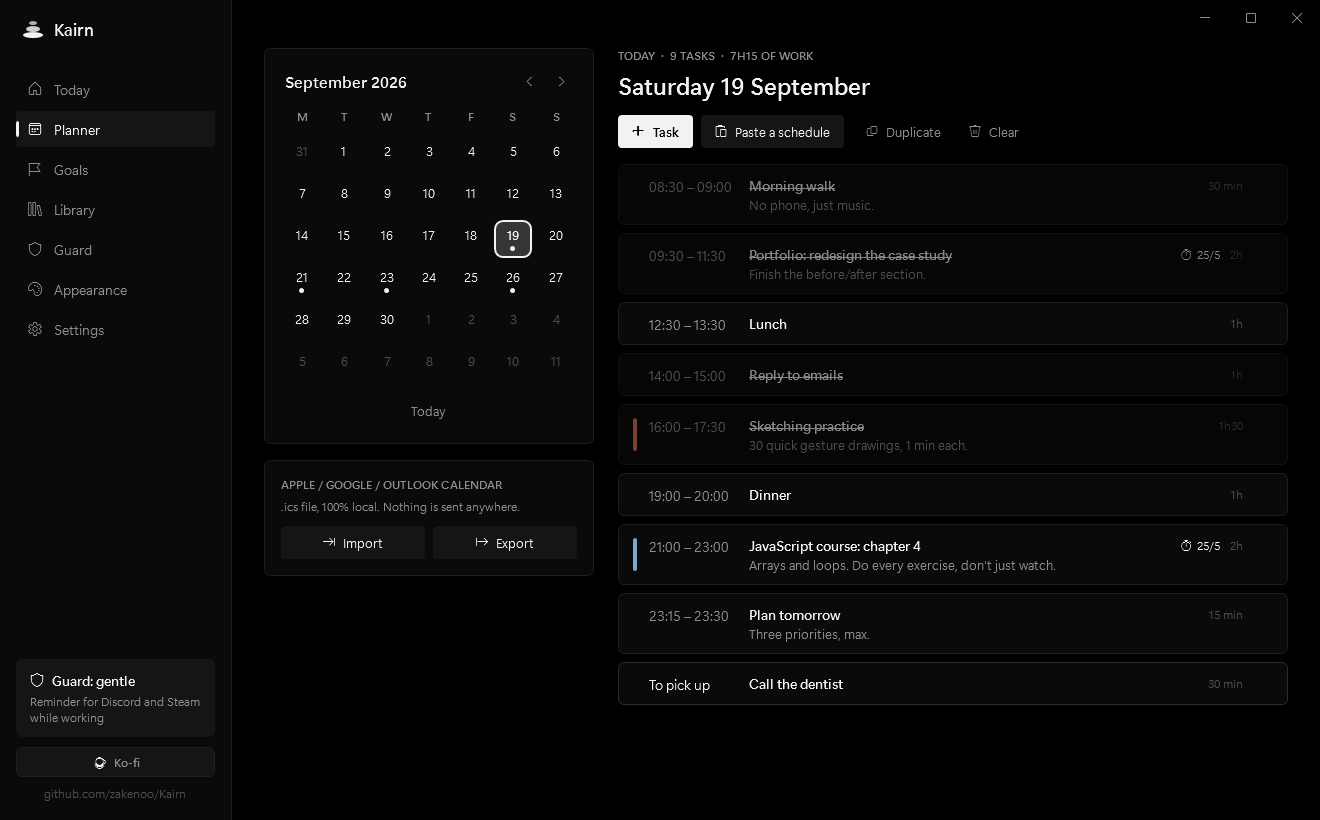
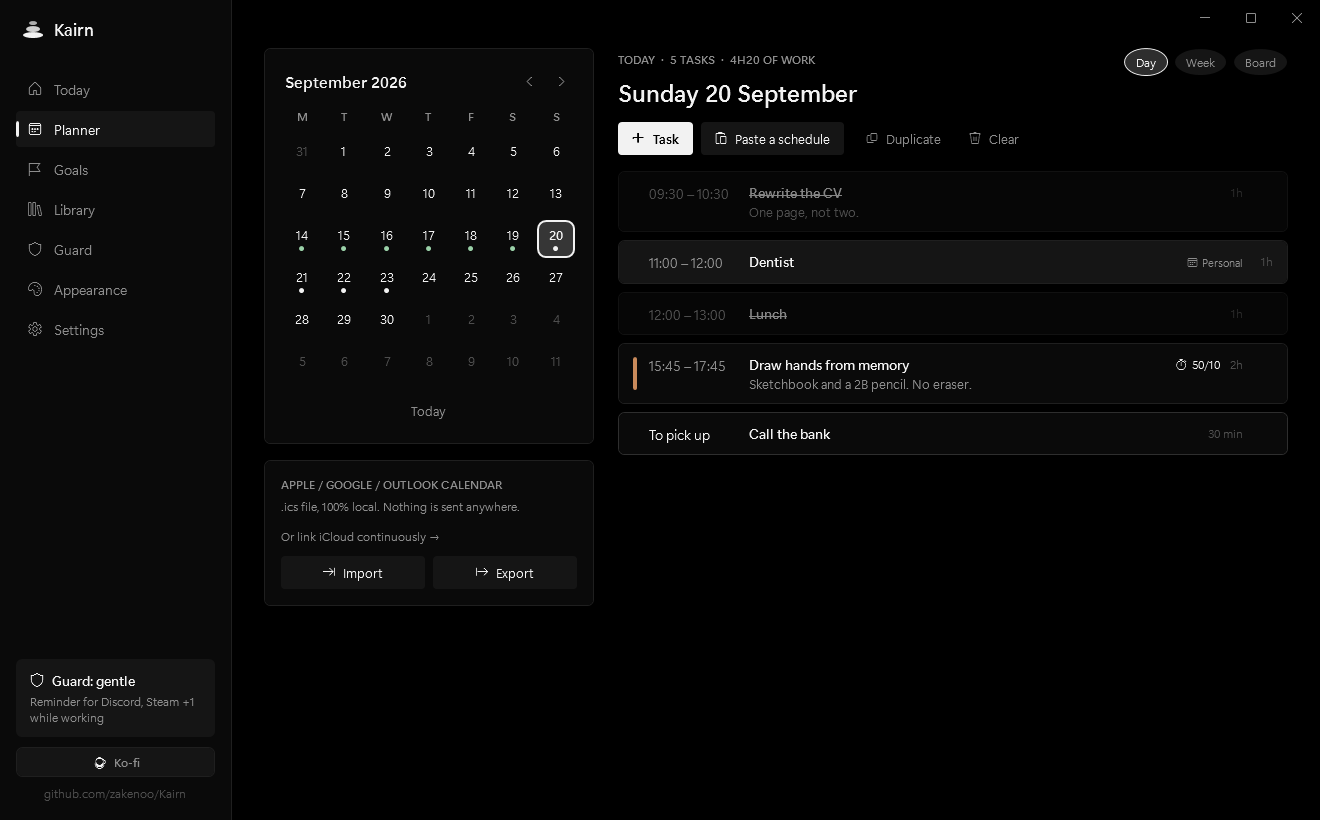
Rewrite the README and refresh every screenshot
The screenshots still showed the interface from before steps, the
essentials, the view switcher and the iCloud link. All of them are
regenerated in English from a consistent demo day, and three new ones
are added: the week view, the board view and the task editor.

The README is restructured around what the app actually does now, and
states the one rule that shapes the rest: Kairn never asks you to sort,
rate or prioritise, because a single star capped at three is enough.

Also corrected: English, not French, is the reference language for
translations, and the privacy section now covers the calendar password
and the quick-capture shortcut.

diff --git a/README.md b/README.md
@@ -10,7 +10,7 @@ Your day hour by hour, a work rhythm that suits you, a gentle guard against dist
 and an assistant that turns “I want to learn this” into real sessions in your calendar.
 No account. No cloud. Nothing leaves your PC unless you decide so.
 
-[**Download for Windows**](https://github.com/zakenoo/Kairn/releases/latest) · [Privacy](#privacy) · [FAQ](#faq) · [Support on Ko-fi](https://ko-fi.com/zakenoo)
+[**Download for Windows**](https://github.com/zakenoo/Kairn/releases/latest) · [Features](#features) · [Privacy](#privacy) · [FAQ](#faq) · [Support on Ko-fi](https://ko-fi.com/zakenoo)
 
 ![Windows 10/11](https://img.shields.io/badge/Windows-10%20%7C%2011-0b0b0b?style=flat-square)
 ![Local first](https://img.shields.io/badge/data-100%25%20local-0b0b0b?style=flat-square)
@@ -25,38 +25,44 @@ No account. No cloud. Nothing leaves your PC unless you decide so.
 
 Kairos was the Greek god of the right moment; a cairn is the small pile of stones that marks a trail. Kairn is both: landmarks for your day, placed at the right time.
 
-It was built for people who find it hard to start, to stay on track, or to forgive themselves when a day doesn't go to plan, including people with ADHD. A few principles shape everything:
+It was built for people who find it hard to start, to stay on track, or to forgive themselves when a day doesn't go to plan, including people with ADHD. Four principles shape everything:
 
 - **No guilt.** There's no percentage of what you *didn't* do, and no streak to keep alive. Progress is a cairn that gains a stone for every finished task and every finished step, plus the time you actually worked. A day you skip never takes a stone away.
 - **Nothing is lost.** An unfinished task isn't a failure: it moves to your next work session, in “To pick up”.
 - **Starting is the hard part.** Every plan begins with an easy first step, long tasks are cut into short sessions, and the next action is always in plain sight.
 - **Your data is yours.** Everything is stored as plain files on your PC. No account, no telemetry, no ads.
 
+There is also one thing Kairn deliberately does *not* do: it never asks you to sort, rate or prioritise. There's a single way to say “this one counts” — a star, one click, capped at three.
+
 ## Features
 
 ### Today
 The task in progress with a live countdown, what comes next, and your whole day at a glance. Links attached to a task (a Figma file, a YouTube tutorial, a document) get a one-click button when it's time, and can even open by themselves. Your work tools sit on the side, and your mail can stay out of sight during work blocks.
 
-**The essentials** holds the two or three things that really matter today, and nothing more. One click on a star, no level to pick and nothing to read: it's the only way Kairn lets you say “this one counts”, on purpose. **Focus** hides everything else in one click: only the task you're on stays, and one click brings the rest back.
+**The essentials** holds the two or three things that really matter today, and nothing more. **Focus** hides everything else in one click: only the task you're on stays, and one click brings the rest back.
 
 ### Steps
-A task can be cut into steps you tick off one by one, until the first one is small enough to be impossible to put off. The task in progress shows them as a checklist, and the assistant turns its instructions into steps by itself. Every step you finish adds a stone to the cairn, exactly like a finished task: starting counts as much as finishing.
+A task can be cut into steps you tick off one by one, until the first one is small enough to be impossible to put off. The task in progress shows them as a checklist, the assistant turns its instructions into steps by itself, and one button turns your notes into steps, one line each.
+
+Every step you finish adds a stone to the cairn, exactly like a finished task: starting counts as much as finishing.
+
+<img src="docs/screenshots/editor.png" alt="Editing a task: steps, icon, reminders" width="900">
 
 ### Planner
 A monthly calendar where you add tasks on time slots, or **paste a whole schedule as plain text**: `9:30 Study`, `12:00 - 13:00 Lunch`, `2pm 📝 Write CV #pomodoro`. Indented lines become notes, lines without a time become section titles, an icon at the start of a line becomes the task's icon, and you get a live preview before anything is added. Import and export `.ics` files for Apple, Google or Outlook calendars.
 
-Three ways to look at the same days, one click apart: **Day** (the list), **Week** (seven columns with the blocks at their hour) and **Board** (*To pick up* / *Planned* / *Done*). **Drag a task** wherever it should go: onto another day in the calendar, onto another hour in the week, into another column on the board, or above or below another task to reorder the day. No dialog, no error message, no guilt.
+Three ways to look at the same days, one click apart:
 
-<img src="docs/screenshots/planner.png" alt="Planner" width="900">
+<img src="docs/screenshots/planner.png" alt="Planner, day view" width="900">
 
-### Your iCloud calendar, both ways
-Link your iCloud account and **your real appointments appear in your day** — they hold their slot, so the assistant stops planning a drawing session in the middle of your dentist appointment. They're read-only in Kairn: a meeting isn't a task you tick off, and the place to change it is Apple's Calendar app.
+**Week** puts the seven days side by side with the blocks at their hour, and **Board** sorts the day into *To pick up* / *Planned* / *Done*.
 
-Turn on sending and **your Kairn sessions go up to iCloud**, so they're on your iPhone and your Mac. Kairn creates its own “Kairn” calendar for that and **only ever writes there** — it never touches an event it didn't create.
+<p align="center">
+  <img src="docs/screenshots/week.png" alt="Planner, week view" width="440">
+  <img src="docs/screenshots/board.png" alt="Planner, board view" width="440">
+</p>
 
-Nothing happens until you link an account yourself, nothing is shown until you tick which calendars to share, and sending is a separate switch that starts off. “Unlink” removes the imported appointments from Kairn and leaves your Apple side untouched. It needs an [app-specific password](https://account.apple.com), not your Apple password, and it's revocable from Apple at any time. Recurring events are expanded by Apple's own server, so “every Tuesday” really comes back as every Tuesday, with its exceptions.
-
-The same protocol (CalDAV) works for Fastmail, Nextcloud and Synology. Google removed simple-password CalDAV, so for Google Calendar the `.ics` import below is still the way.
+**Drag a task** wherever it should go: onto another day in the calendar, onto another hour in the week, into another column on the board, or above or below another task to reorder the day. Reordering keeps the day's time slots exactly as you shaped them and just changes what happens when. No dialog, no error message, no guilt.
 
 ### Reminders
 For a task, pick as many reminders as you need: an hour before, fifteen minutes before, on the hour. A quiet banner says what's coming, how long you have, and the first step to get going, with *On my way* and *In 10 min*. You can set the ones every new task gets in the settings.
@@ -66,6 +72,15 @@ For a task, pick as many reminders as you need: an hour before, fifteen minutes 
 
 ### Work rhythm (Pomodoro & co)
 Long tasks split themselves into sessions and breaks, with no manual planning: Pomodoro 25/5 (with a long break every four sessions), Small steps 15/5, Focused 50/10, Deep work 90/20, or your own. Pick it per task, add `#pomodoro` or `#50/10` to a pasted line, or apply it automatically to every long task. A discreet banner (with an optional soft sound) announces each break and each restart, and the guard rests during breaks.
+
+### Your iCloud calendar, both ways
+Link your iCloud account and **your real appointments appear in your day** — they hold their slot, so the assistant stops planning a drawing session in the middle of your dentist appointment. They're read-only in Kairn: a meeting isn't a task you tick off, and the place to change it is Apple's Calendar app.
+
+Turn on sending and **your Kairn sessions go up to iCloud**, so they're on your iPhone and your Mac. Kairn creates its own “Kairn” calendar for that and **only ever writes there** — it never touches an event it didn't create.
+
+Nothing happens until you link an account yourself, nothing is shown until you tick which calendars to share, and sending is a separate switch that starts off. “Unlink” removes the imported appointments from Kairn and leaves your Apple side untouched. It needs an [app-specific password](https://account.apple.com), not your Apple password, and it's revocable from Apple at any time. Recurring events are expanded by Apple's own server, so “every Tuesday” really comes back as every Tuesday, with its exceptions.
+
+The same protocol (CalDAV) works for Fastmail, Nextcloud and Synology. Google removed simple-password CalDAV, so for Google Calendar the `.ics` import is still the way.
 
 ### Goals, with an assistant
 Write what you want to achieve and how long you have, for example “run 5 km without stopping, 8 weeks, mornings”. The assistant asks two or three questions if needed, writes a roadmap in phases, and details the next two weeks as concrete sessions with tutorial links. Each session arrives with its instructions already cut into steps you can tick off.
@@ -102,8 +117,8 @@ Twelve ready-made themes, and everything is editable: all twelve interface color
 ### Everything else
 - **12 languages**: English, 中文, हिन्दी, Español, Français, العربية (mirrored right-to-left interface), বাংলা, Português, Русский, 日本語, Deutsch, Bahasa Indonesia. Dates, days and durations follow your language.
 - **Mail**: read your inbox (IMAP) inside Kairn, or simply get a button that opens your webmail in the browser. During work blocks, only the unread count is shown.
+- **A small reward**: a short, discreet sound when you tick something off, the line lights up, and confetti for the last task of the day. Both can be turned off.
 - **Starts with Windows** (optional), lives quietly in the notification area.
-- **A small reward**: a short, discreet sound when you tick something off, the line lights up, and confetti for the last task of the day. Both can be turned off in the settings.
 
 ## Install
 
@@ -128,7 +143,7 @@ Twelve ready-made themes, and everything is editable: all twelve interface color
 
 ## Updates
 
-If you allow it (it's an option in the setup and in Settings), Kairn asks GitHub once a day whether a newer version exists. When one does, a card appears in the sidebar: one click downloads the new setup, **checks its SHA-256 fingerprint against the one published by GitHub**, replaces Kairn and restarts it. Your tasks and settings are untouched.
+If you allow it (it's an option in the setup and in Settings), Kairn asks GitHub once a day whether a newer version exists. When one does, a card appears in the sidebar: one click downloads the new setup, **checks its SHA-256 fingerprint against the one published by GitHub**, replaces Kairn and restarts it. Your tasks and settings are untouched, and new settings simply start at their defaults.
 
 If you'd rather not, leave the option off and use **Settings → Updates → Check now** whenever you like.
 
@@ -147,11 +162,11 @@ Kairn has **no account, no telemetry, no analytics, no crash reporting and no ad
 
 **Where your data lives:** `%AppData%\Kairn`, as readable JSON files (`data.json`, `settings.json`) plus a `library` folder for your files. Back it up or move it to another PC by copying that folder.
 
-**Secrets are encrypted.** Your mail password and API key are encrypted with Windows DPAPI: only your Windows account, on this PC, can decrypt them. (It also means you'll re-enter them after moving to a new PC.)
+**Secrets are encrypted.** Your mail password, your calendar password and your API key are encrypted with Windows DPAPI: only your Windows account, on this PC, can decrypt them. (It also means you'll re-enter them after moving to a new PC.)
 
 **What the guard can see:** during work blocks only, it reads the name of the app in the foreground every two seconds (for example `Discord`), compares it with your list, and that's it. Nothing is logged, stored or sent. It only closes apps in the Close and Strict modes that you choose, and never touches fullscreen apps other than showing a reminder.
 
-**What goes into Windows:** a Start menu shortcut, an entry in *Apps* for uninstalling, and, if you enabled it, a startup entry in your user's `Run` registry key. Nothing system-wide, nothing that needs admin rights.
+**What goes into Windows:** a Start menu shortcut, an entry in *Apps* for uninstalling, and, if you enabled it, a startup entry in your user's `Run` registry key. The quick-capture shortcut (Ctrl + Alt + K) is registered only while Kairn is running, and released when it quits. Nothing system-wide, nothing that needs admin rights.
 
 ## The local AI model
 
@@ -208,11 +223,17 @@ Because the executable isn't signed with a paid code-signing certificate. The co
 </details>
 
 <details>
-<summary><b>Can I import my Google, Apple or Outlook calendar?</b></summary>
+<summary><b>Can I connect my Google, Apple or Outlook calendar?</b></summary>
 
 **iCloud** can be linked properly, both ways, if you want it to: see [Your iCloud calendar](#your-icloud-calendar-both-ways). It's off until you link it yourself.
 
 For **Google and Outlook**, it's `.ics` files (Planner → Import / Export): a one-time import, not a live link. Google no longer allows a simple password for calendar access, and Kairn won't ship a hidden client secret to work around it.
+</details>
+
+<details>
+<summary><b>Do my reminders work when Kairn is closed?</b></summary>
+
+No. Reminders are fired by Kairn itself, so it has to be running — which is what “start with Windows” and the notification area are for. Nothing is scheduled in Windows behind your back.
 </details>
 
 <details>
@@ -224,7 +245,7 @@ It moves to your next work session, in “To pick up”, without an hour. Give i
 <details>
 <summary><b>How do I back up my data or move to another PC?</b></summary>
 
-Copy the `%AppData%\Kairn` folder (or your `data` folder in portable mode). On the new PC, install Kairn and put the folder back. You'll need to re-enter your mail password and API key, which are encrypted for your Windows account only.
+Copy the `%AppData%\Kairn` folder (or your `data` folder in portable mode). On the new PC, install Kairn and put the folder back. You'll need to re-enter your mail password, calendar password and API key, which are encrypted for your Windows account only.
 </details>
 
 <details>
@@ -260,7 +281,9 @@ The setup is Kairn itself: the same executable opens in install mode when its na
 
 ## Translations
 
-All interface texts live in [`Kairn/i18n`](Kairn/i18n), one JSON file per language, with `fr.json` as the reference. To fix a translation or add a language **without recompiling**, open *Settings → Open the language folder*: it contains a README and a complete template. Drop an `xx.json` file there and restart Kairn. Missing keys fall back to English.
+All interface texts live in [`Kairn/i18n`](Kairn/i18n), one JSON file per language. English is the reference: a missing key falls back to English, then to French, then to the key itself.
+
+To fix a translation or add a language **without recompiling**, open *Settings → Open the language folder*: it contains a short guide and a complete English template. Drop an `xx.json` file there and restart Kairn.
 
 Pull requests with translation fixes from native speakers are very welcome.
 
